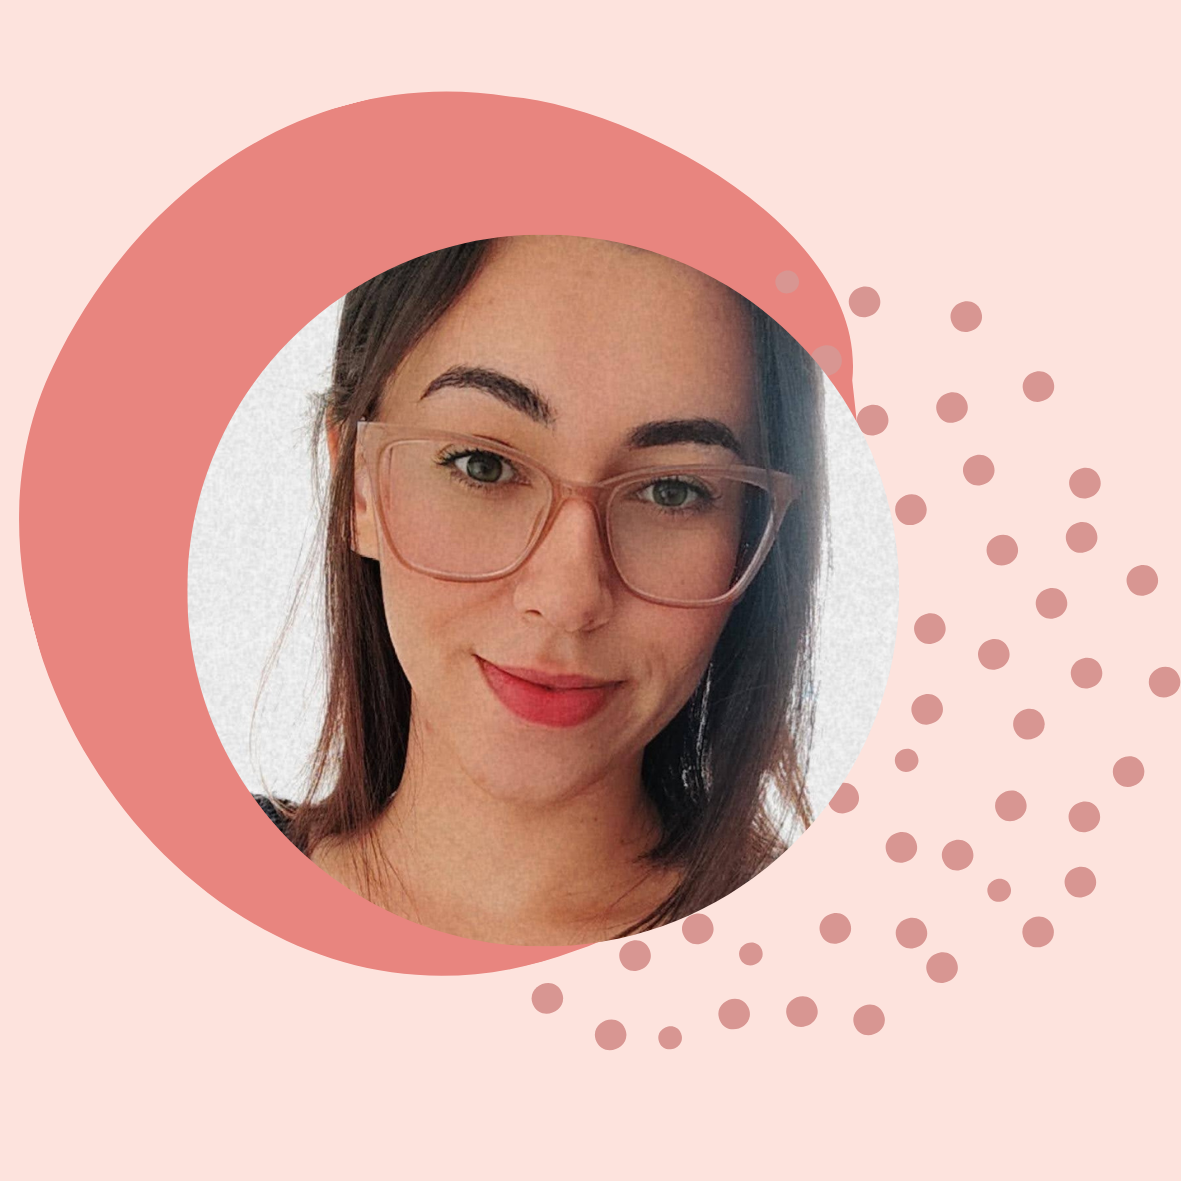
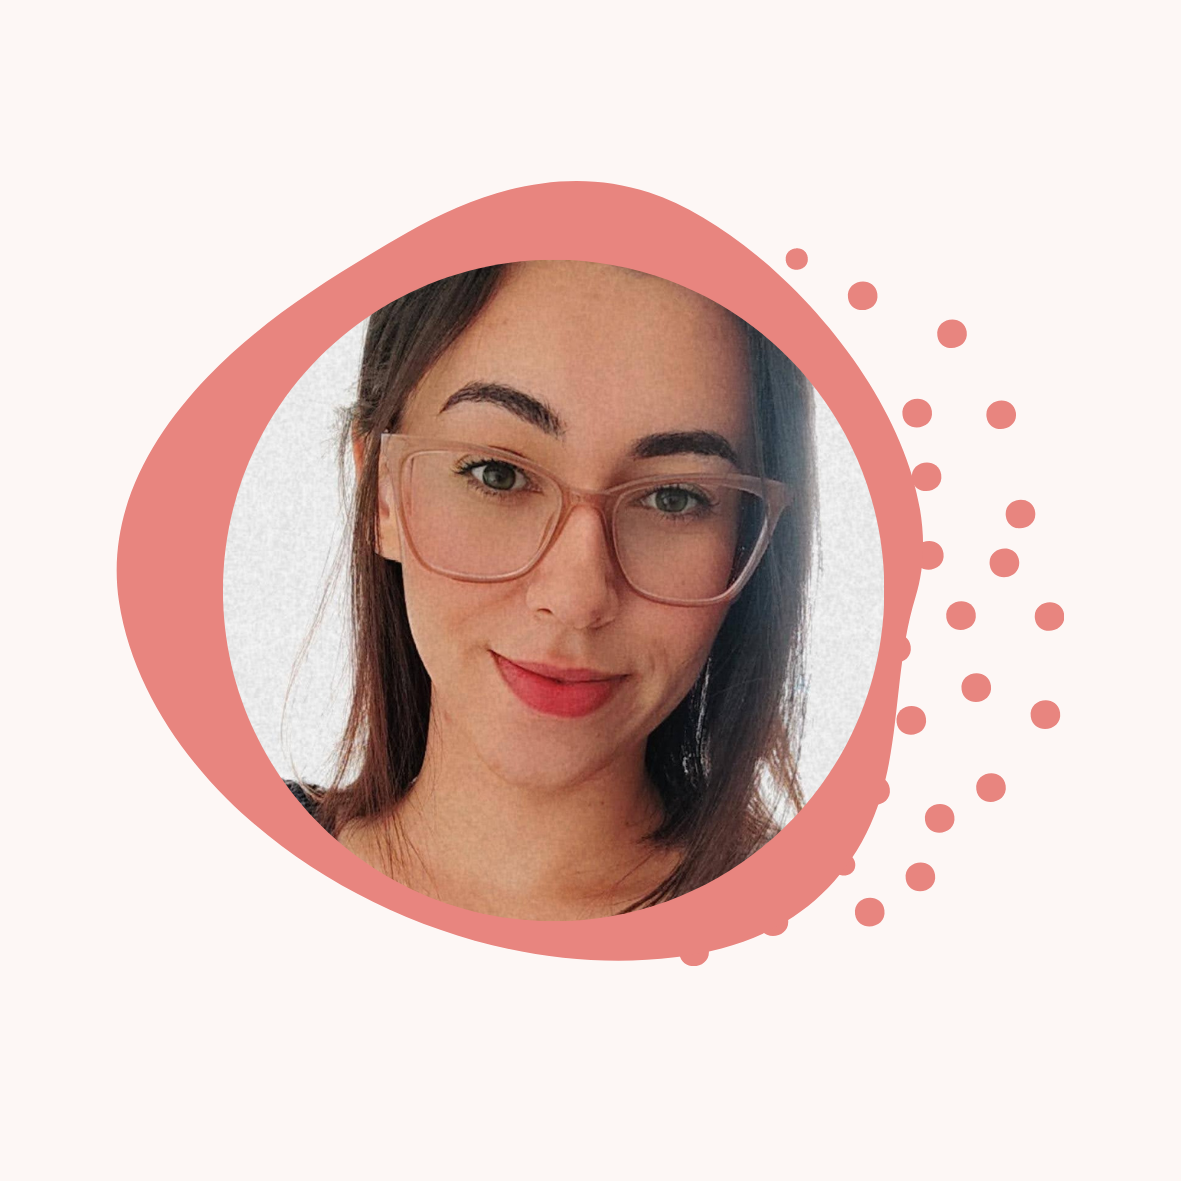
Alterado a paleta de cores onde obackground tem core mais clara. Corrigido cor de fundo das imagens para cor atual.

diff --git a/src/static/css/header_footer.css b/src/static/css/header_footer.css
@@ -8,7 +8,7 @@
 
 /*Header*/
 #cabecalho{
-    background-color: var(--cor7);
+    background-color: var(--corprimary);
 }
 
 /*logo*/
@@ -19,7 +19,7 @@
 
 /*menu*/
 #menu a{
-    color: var(--cor5);
+    color: var(----cortxt);
     font-weight: bold;
     padding: 1rem 2rem;
     font-size: large;
@@ -27,7 +27,7 @@
 
 /*Coloca cor de fundo e sublinhado no menu da página atual*/
 .nav-pills .nav-link.active.menu-item-color, .nav-pills .show>.nav-link.menu-item-color{
-    background-color: var(--cor4);
+    background-color: var(--corbgmenu);
     text-decoration-line: underline;
     text-underline-offset: 2px;
 }
@@ -51,12 +51,12 @@ footer a:link{
 
 /*Footer*/
 #footer{
-    background-color: var(--cor7);
+    background-color: var(--corprimary);
     text-align: center;
 }
 
 #footer .text {
-    color: var(--cor5);
+    color: var(----cortxt);
     font-family: 'Rustling' ;
     font-size: 20px;
     text-align: center;

diff --git a/src/static/css/cores.css b/src/static/css/cores.css
@@ -1,11 +1,8 @@
 @charset "UTF-8";
 :root{
-    --cor0: #FAB0AC;
-    --cor1: #E69CAA;
-    --cor2: #CC8B97;
-    --cor3: #A6717A;
-    --cor4: #923747;
-    --cor5: #fde3dd; /*background body*/
-    --cor6: #fff;
-    --cor7: #e8857f;
+    --corprimary: #e8857f;/*Cor principal da paleta*/
+    --corbgfundo: #fbe1db42;/*cor do background*/
+    --corbgmenu: #923747;/*Cor de fundo do menu*/
+    ----cortxt: #FDE3DD; /*cor dos textos do menu e do footer*/
+    --cortxtbtn: #fff;
 }
